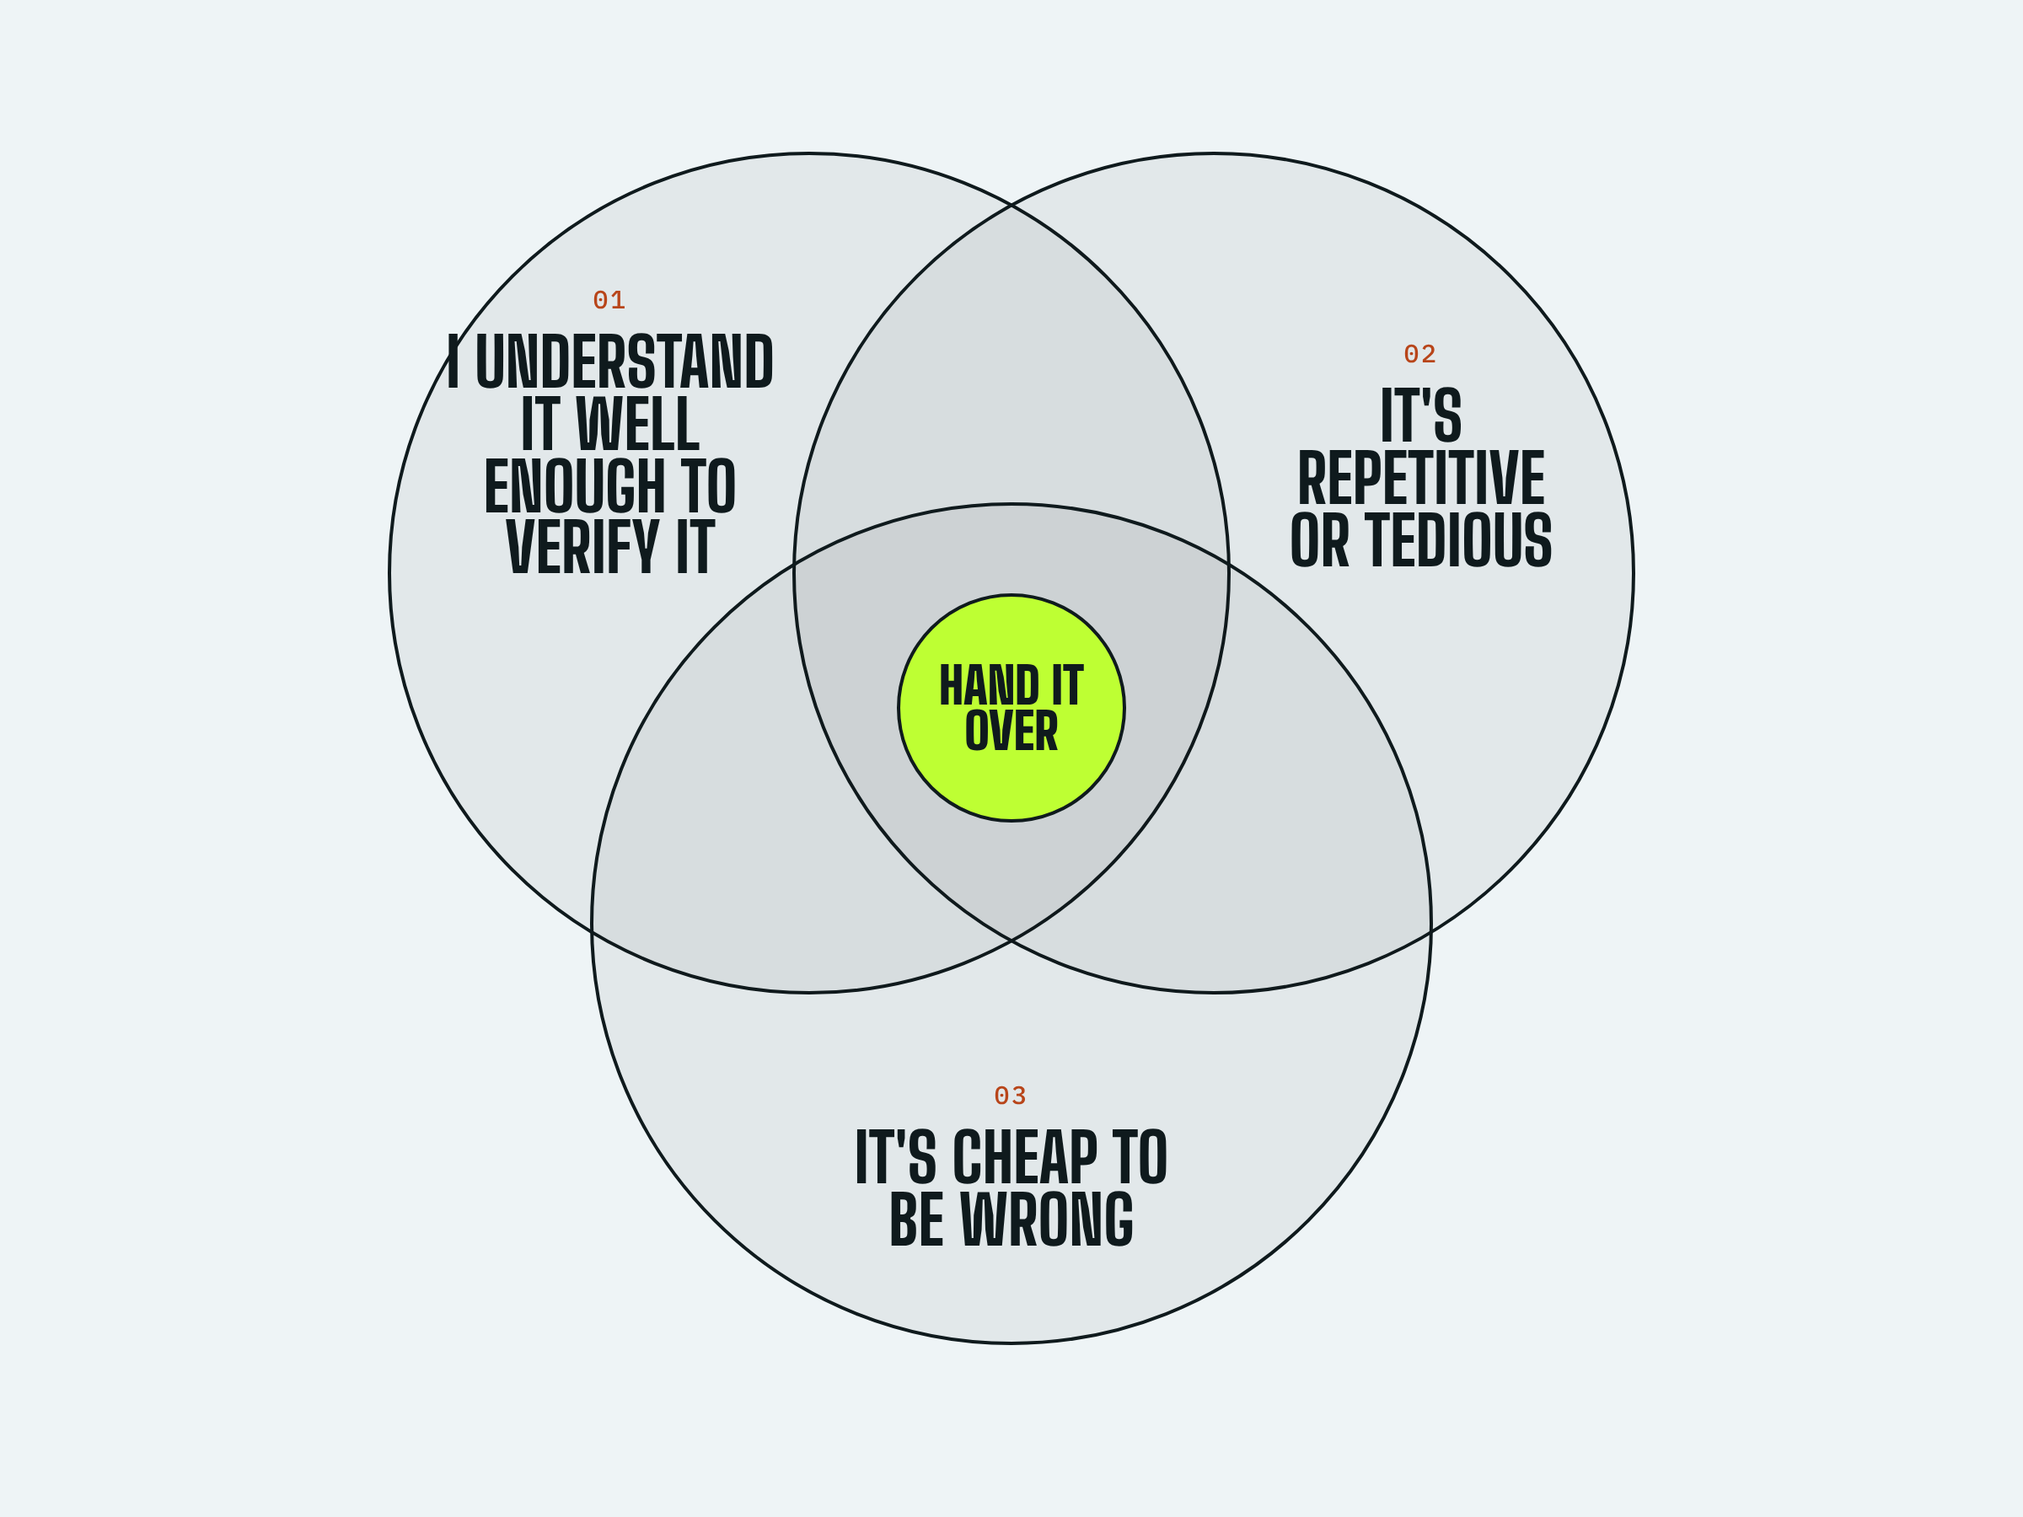
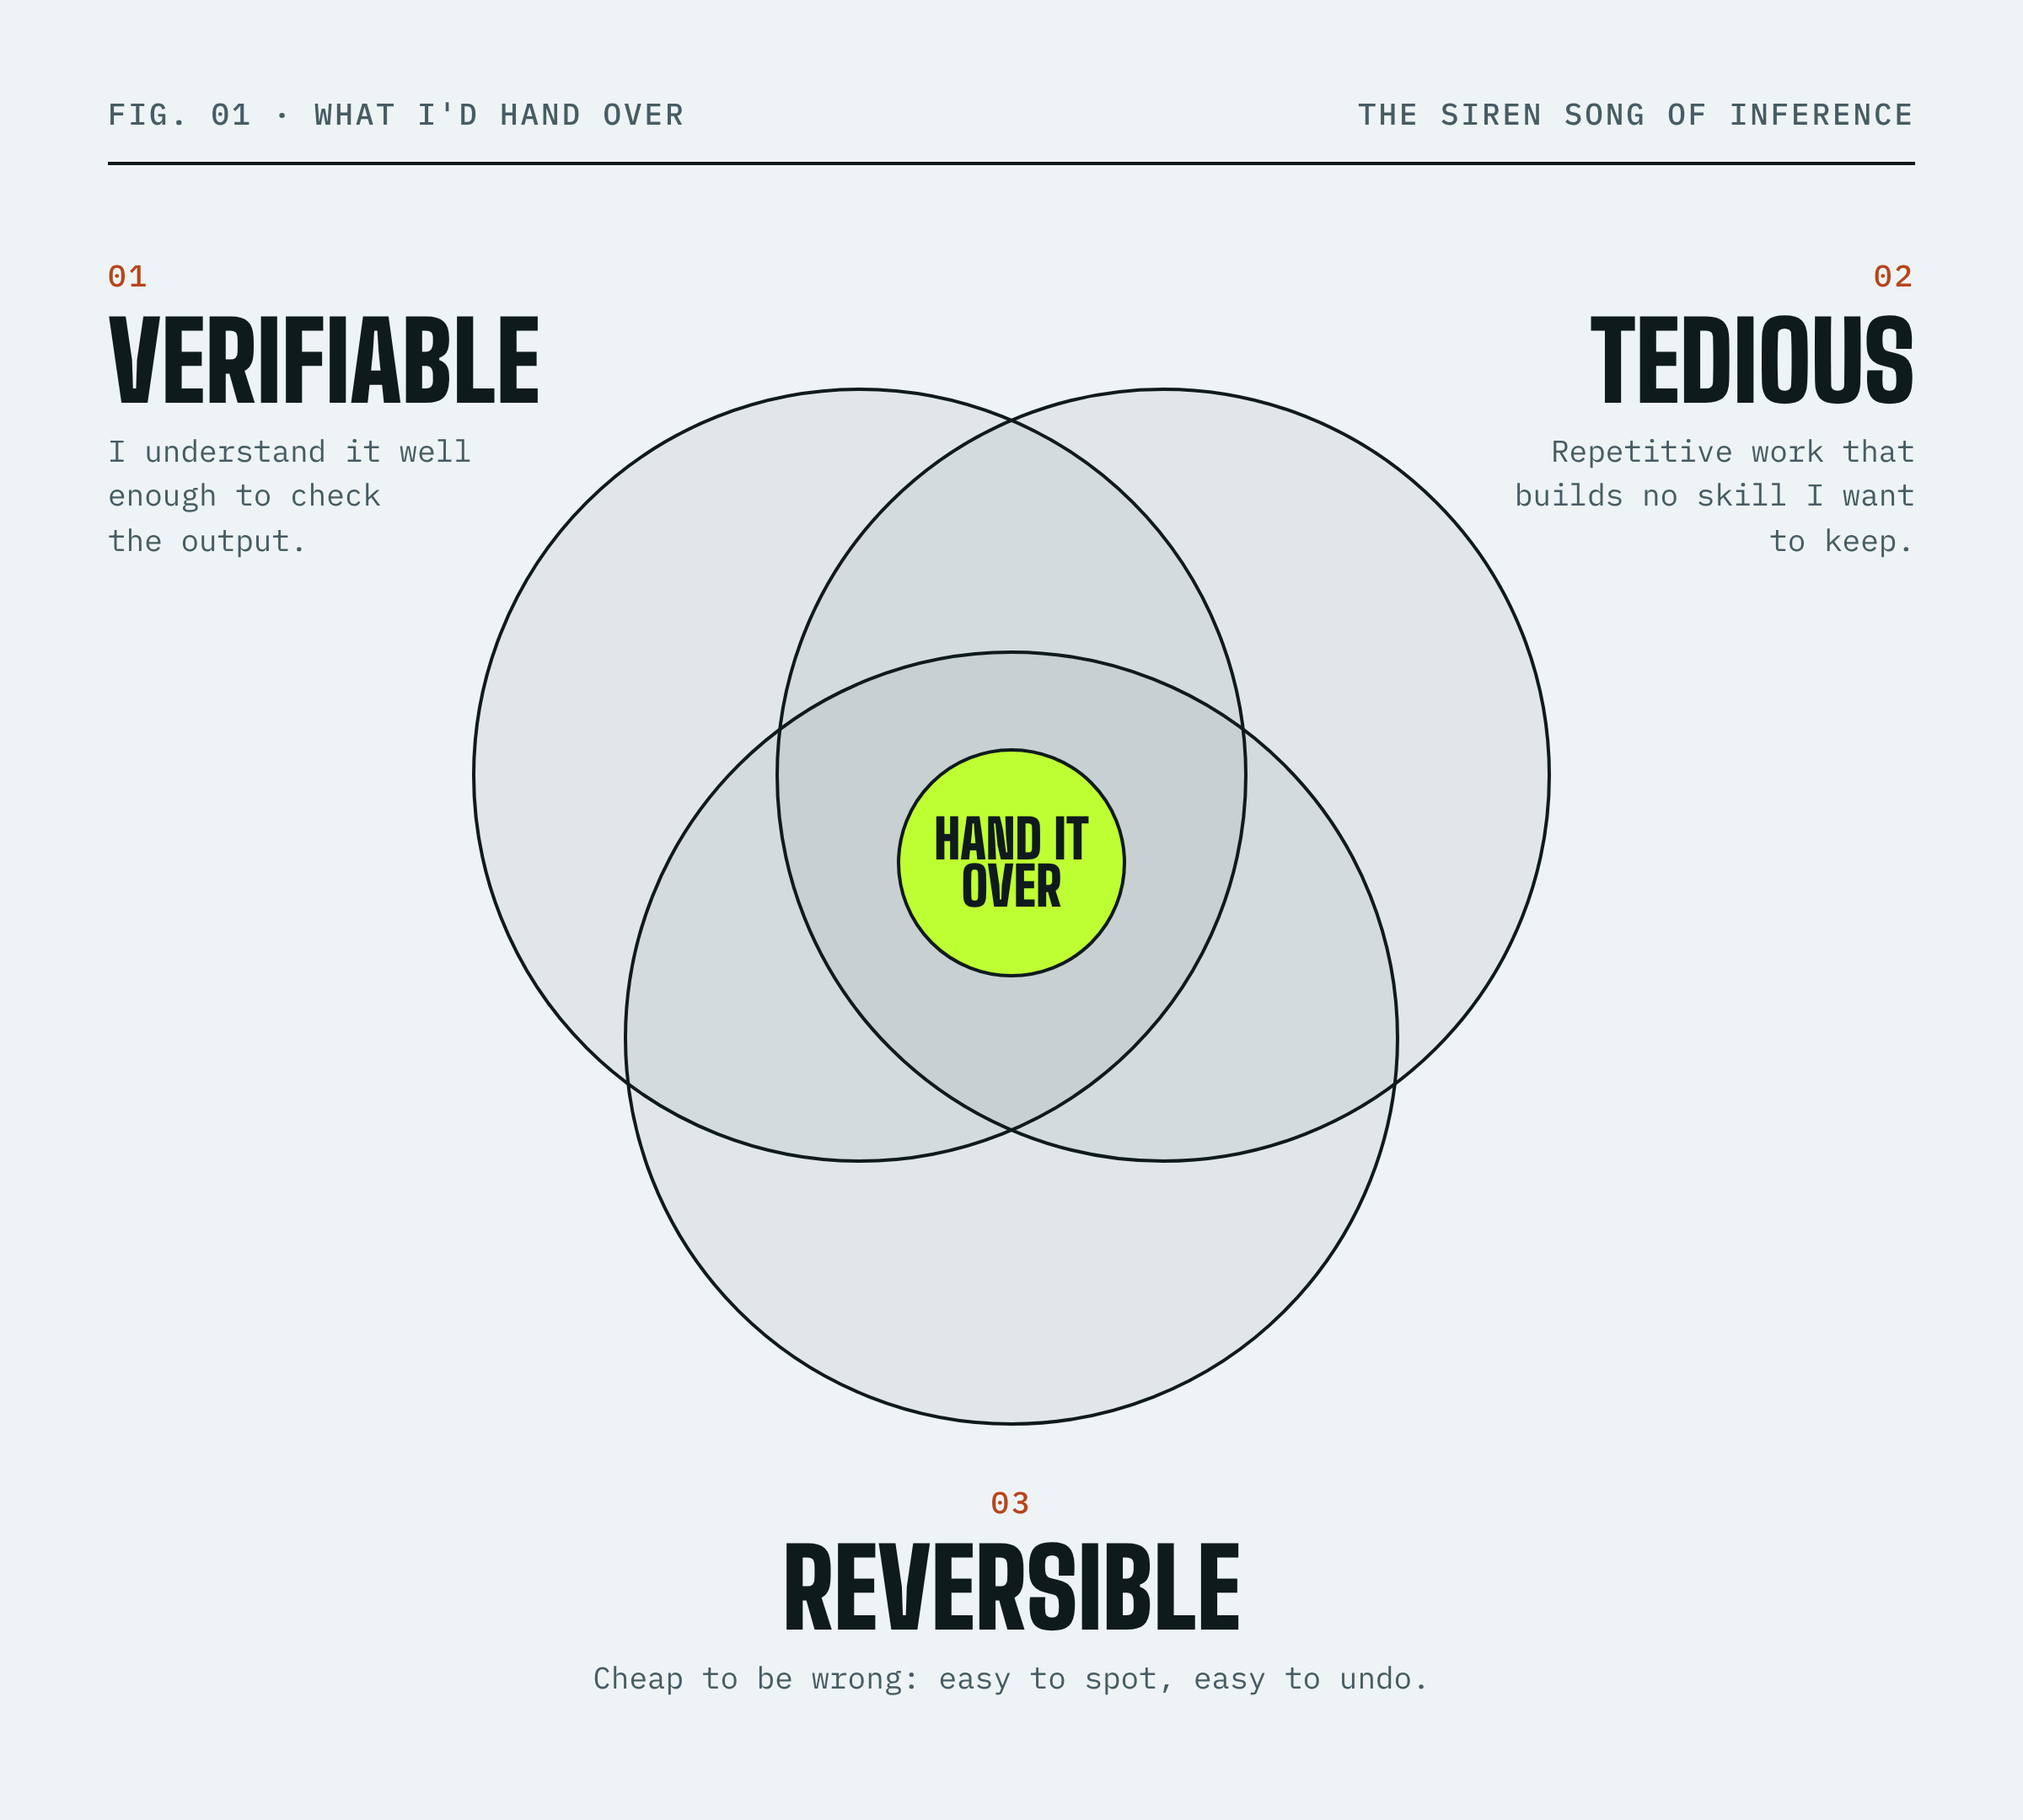
article: redesign Siren Song cover and Venn as one system
The cover is now the 'noise' version of the figure's three-circle motif
(ring systems converging on one solid core), and the Venn is the resolved
'signal' version: direct labels outside the circles (Verifiable, Tedious,
Reversible) with mono explanations, a kicker and 2px ink rule from the
design system, and overlap depth shown by stacked ink tint. Article
bullets and alt text now match the figure's labels.

Claude-Session: https://claude.ai/code/session_01Mo3sWXgPNfSrpUq5LAHKyD

diff --git a/apps/site/content/articles/the-siren-song-of-inference.md b/apps/site/content/articles/the-siren-song-of-inference.md
@@ -132,11 +132,11 @@ So where does that leave us? With a habit, I think: asking what a task actually 
 
 I picture it as three overlapping circles.
 
-::figure[Hand a task to a model where these three overlap.]{src="/articles/the-siren-song-of-inference/venn.png" alt="Venn diagram of three overlapping circles labelled: I understand it well enough to verify it; It's repetitive or tedious; It's cheap to be wrong. The centre, where all three overlap, is labelled: hand it over."}
+::figure[Hand a task to a model where these three overlap.]{src="/articles/the-siren-song-of-inference/venn.png" alt="Venn diagram of three overlapping circles. 01 Verifiable: I understand it well enough to check the output. 02 Tedious: repetitive work that builds no skill I want to keep. 03 Reversible: cheap to be wrong, easy to spot and easy to undo. The centre, where all three overlap, reads: hand it over."}
 
-- **I understand it well enough to verify it**: I could do it myself, I just don't need to.
-- **It's repetitive or tedious**: the work doesn't build any skill I want to keep.
-- **It's cheap to be wrong**: a mistake is easy to spot and easy to undo.
+- **Verifiable**: I understand it well enough to check the output. I could do it myself, I just don't need to.
+- **Tedious**: the work is repetitive and doesn't build any skill I want to keep.
+- **Reversible**: it's cheap to be wrong, because a mistake is easy to spot and easy to undo.
 
 Where all three overlap, the model is a lever. Step outside one of them and you're trusting instead of directing.
 
